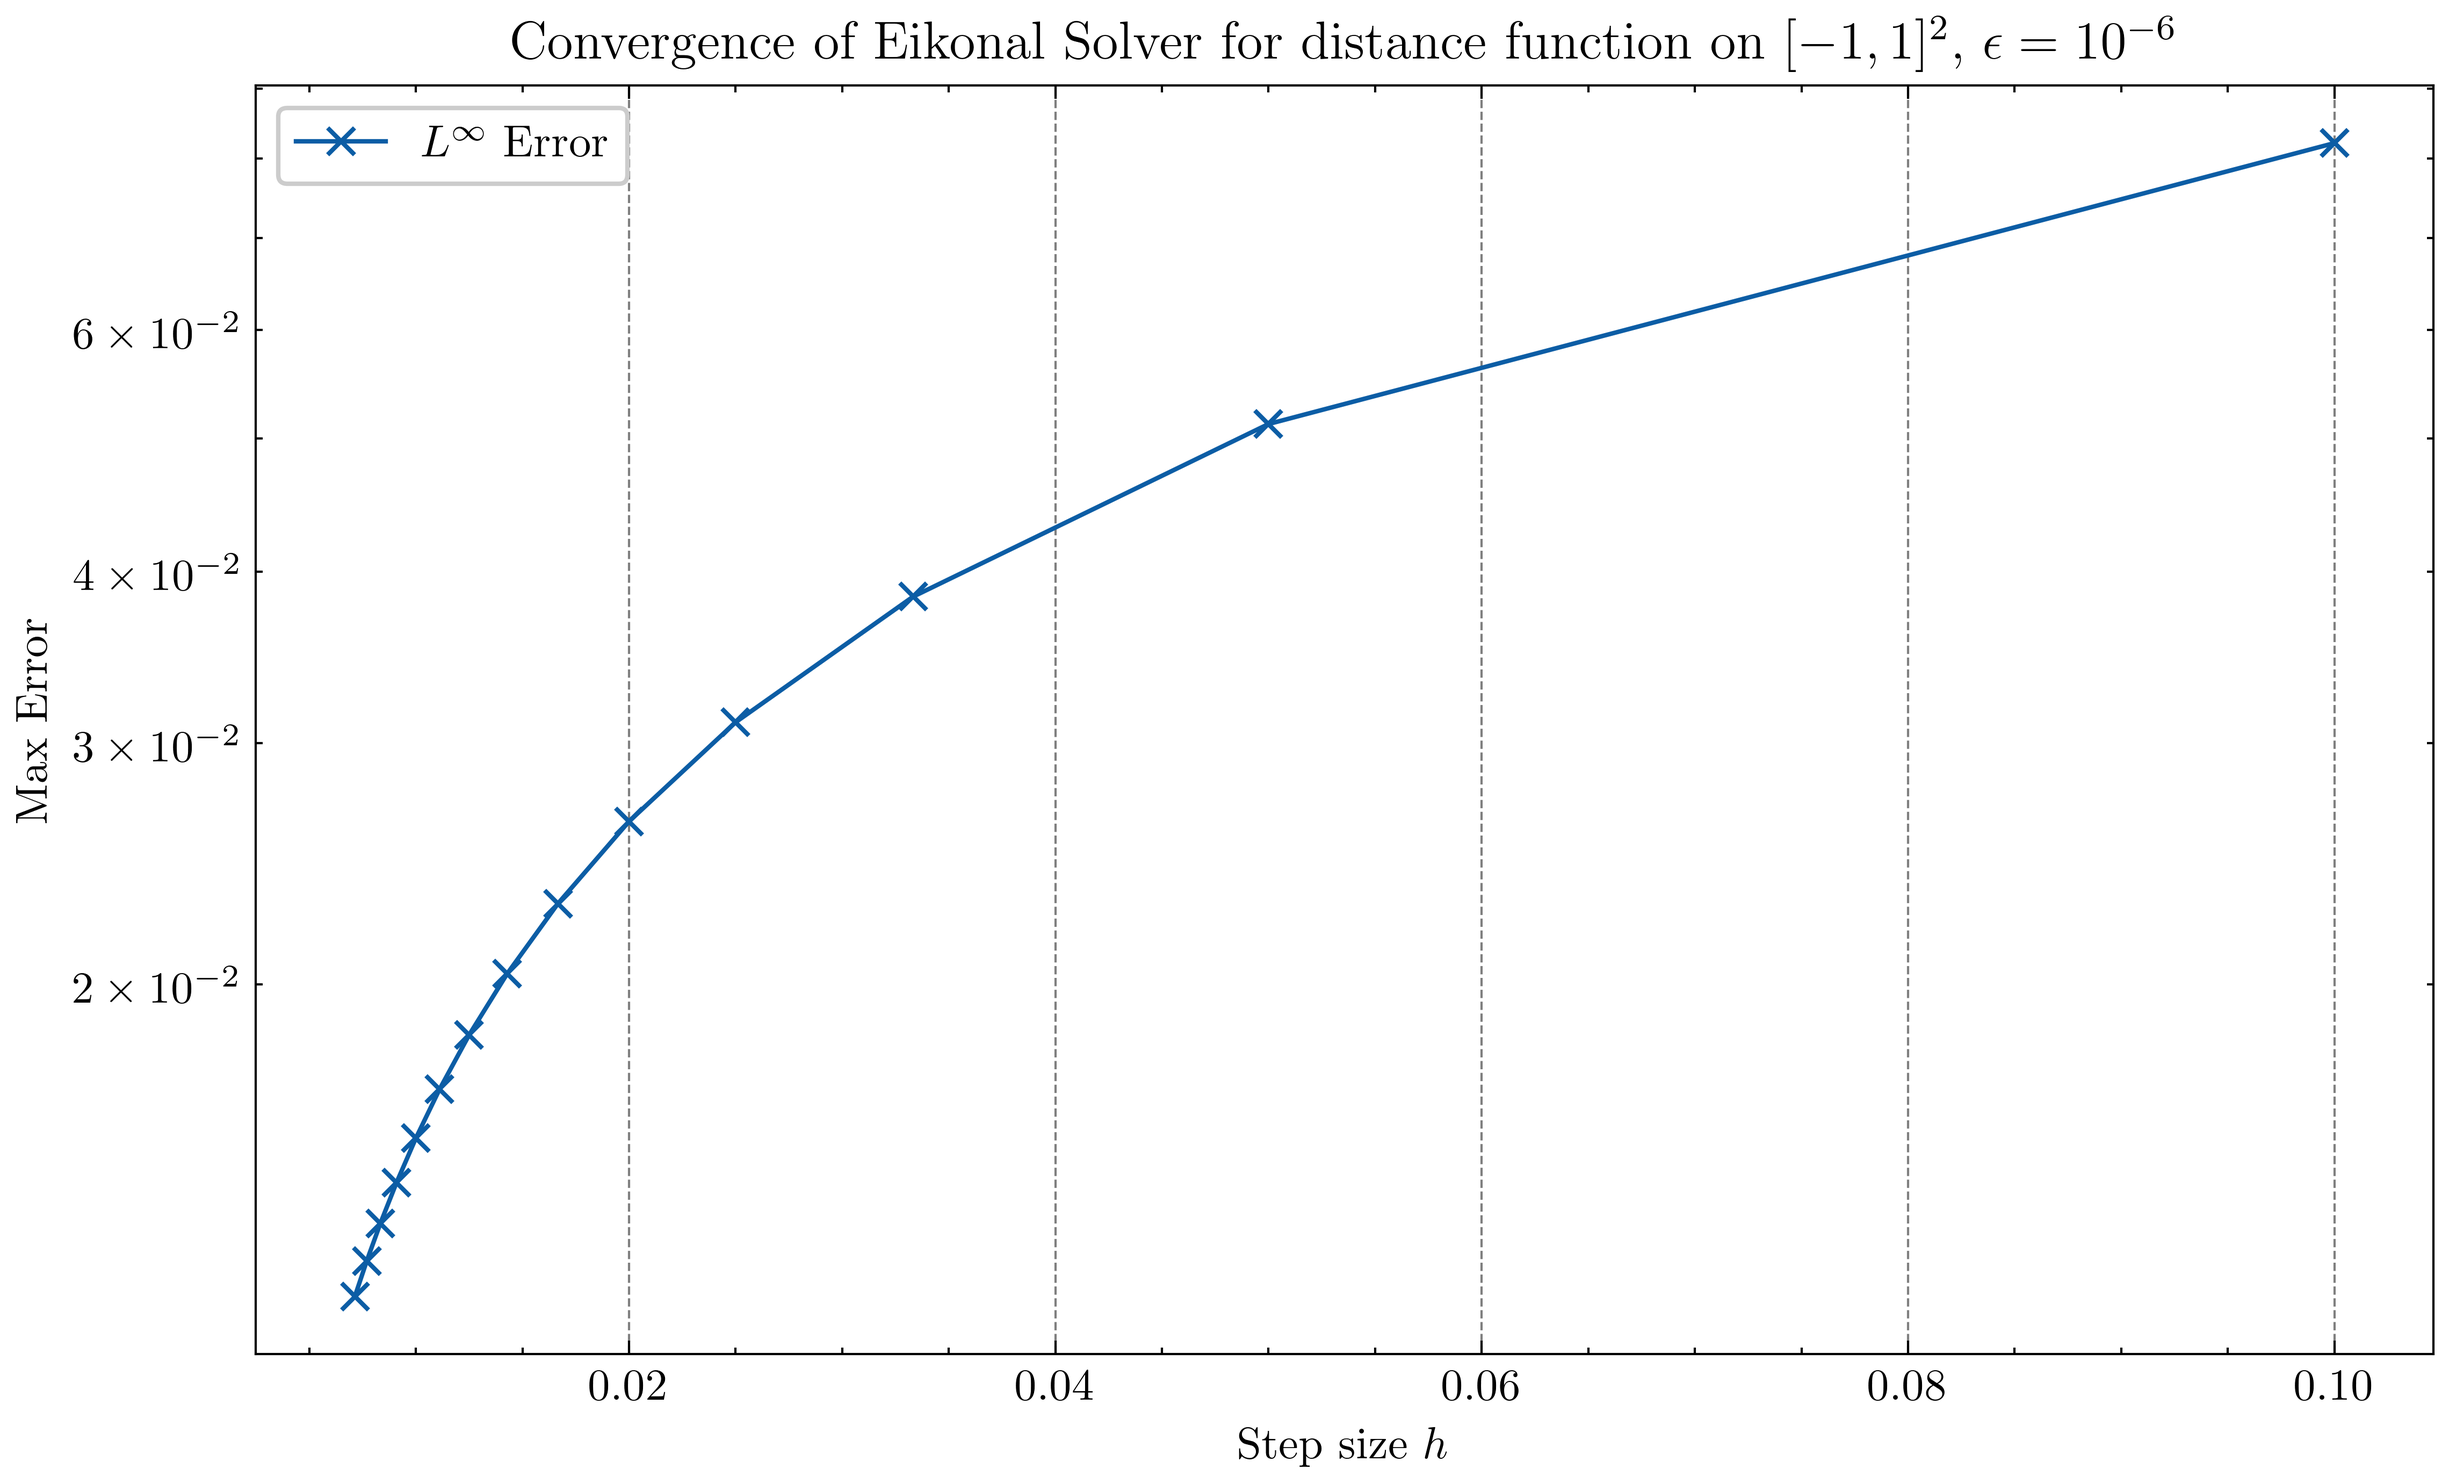
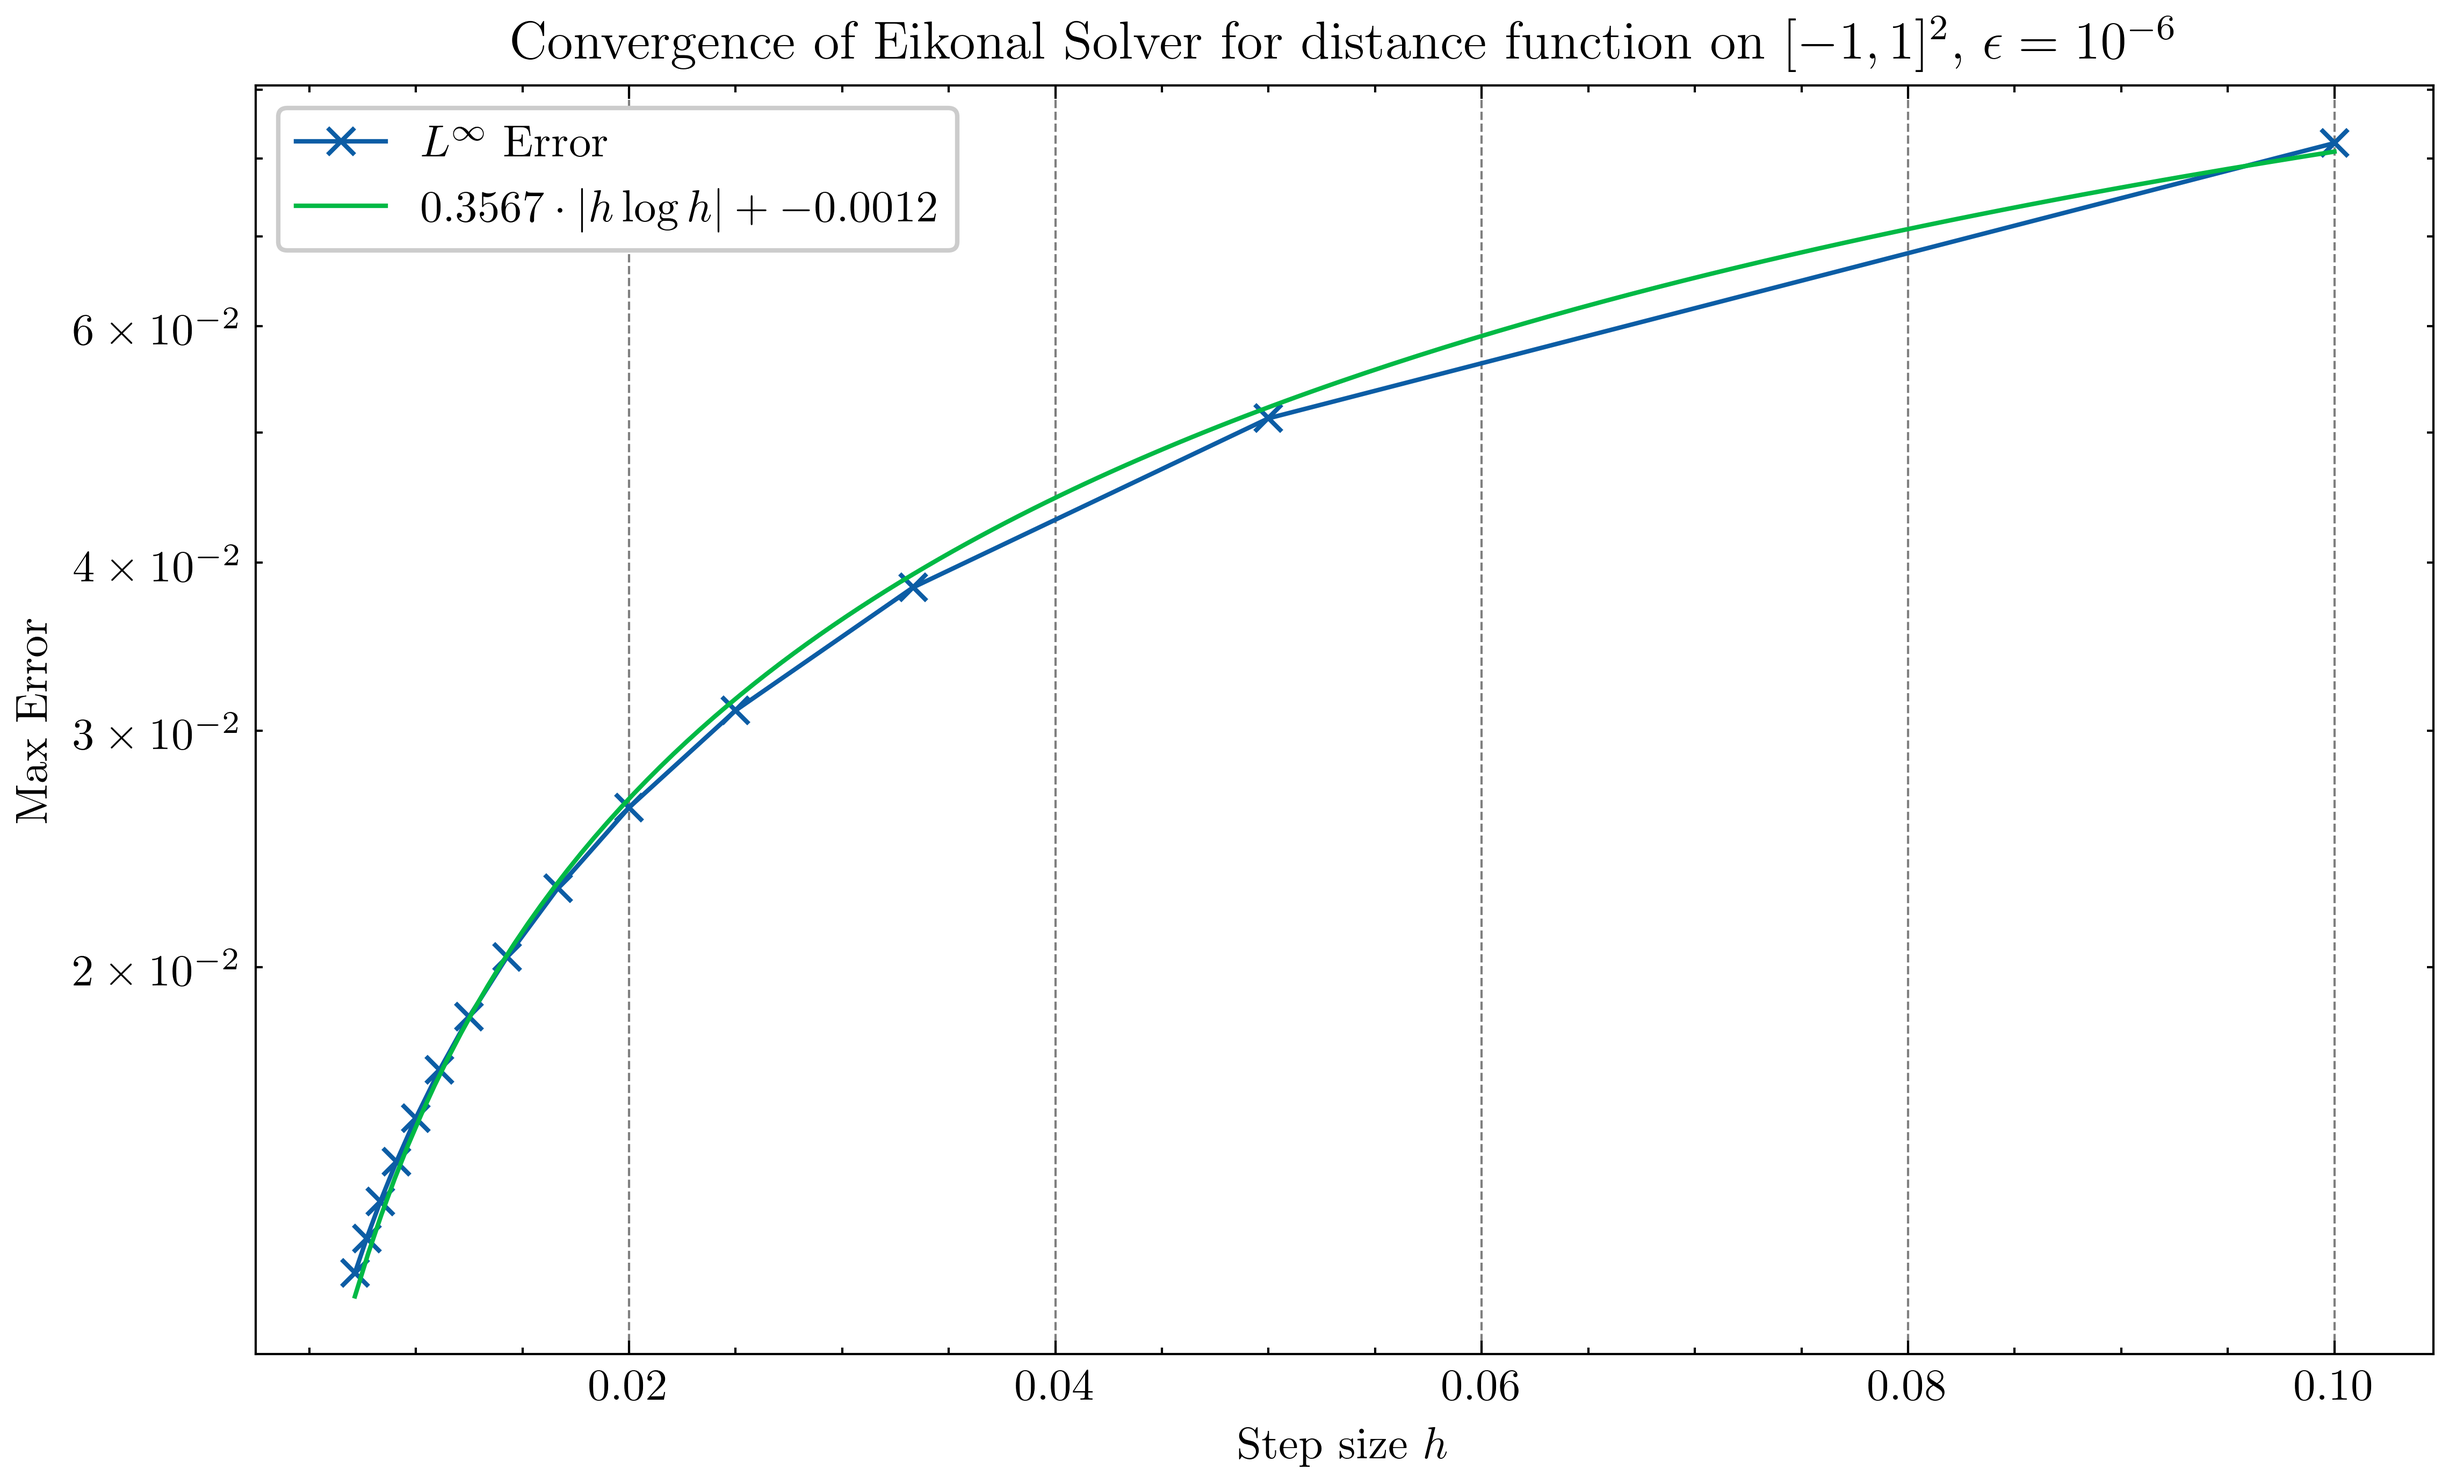
update plots

diff --git a/plots/distance_plots_script.py b/plots/distance_plots_script.py
@@ -1,6 +1,7 @@
 import matplotlib.pyplot as plt
 import scienceplots
 import numpy as np
+from sklearn.linear_model import LinearRegression
 
 grid = np.load('../results/distance/2D_distance_grid.npy')
 errors = np.load('../results/distance/2D_distance_errors.npy')
@@ -19,10 +20,21 @@ plt.tight_layout()
 plt.savefig('convergence2d.png', dpi=600, bbox_inches='tight')
 #plt.show(block=True)  # Keep the window open
 
-# Convergence plot for error vs. step size h
-plt.style.use(['science', 'grid'])
+# CONVERGENCE PLOT OF ERROR VERSUS STEP SIZE h
+
+#Start with the linear model
+model = LinearRegression()
+X = np.array([(2/(N-1)) for N in index]).reshape(-1,1)
+model.fit(np.abs(X*np.log(X)), errors)
+A = float(model.coef_)
+B = float(model.intercept_)
+x = np.linspace(np.min(X),np.max(X), 150)
+
+
+# Plot
 plt.figure(figsize=(7.8, 4.8))
 plt.plot([(2/(N-1)) for N in index][::-1], np.flip(errors),  marker='x', label=r'$L^{\infty}$ Error')
+plt.plot(x, A*np.abs(x*np.log(x)) + B, label = fr'${round(A,4)} \cdot |h \log h| + {round(B,4)}$')
 plt.xlabel(r'Step size $h$')
 plt.ylabel("Max Error")
 plt.yscale("log")
